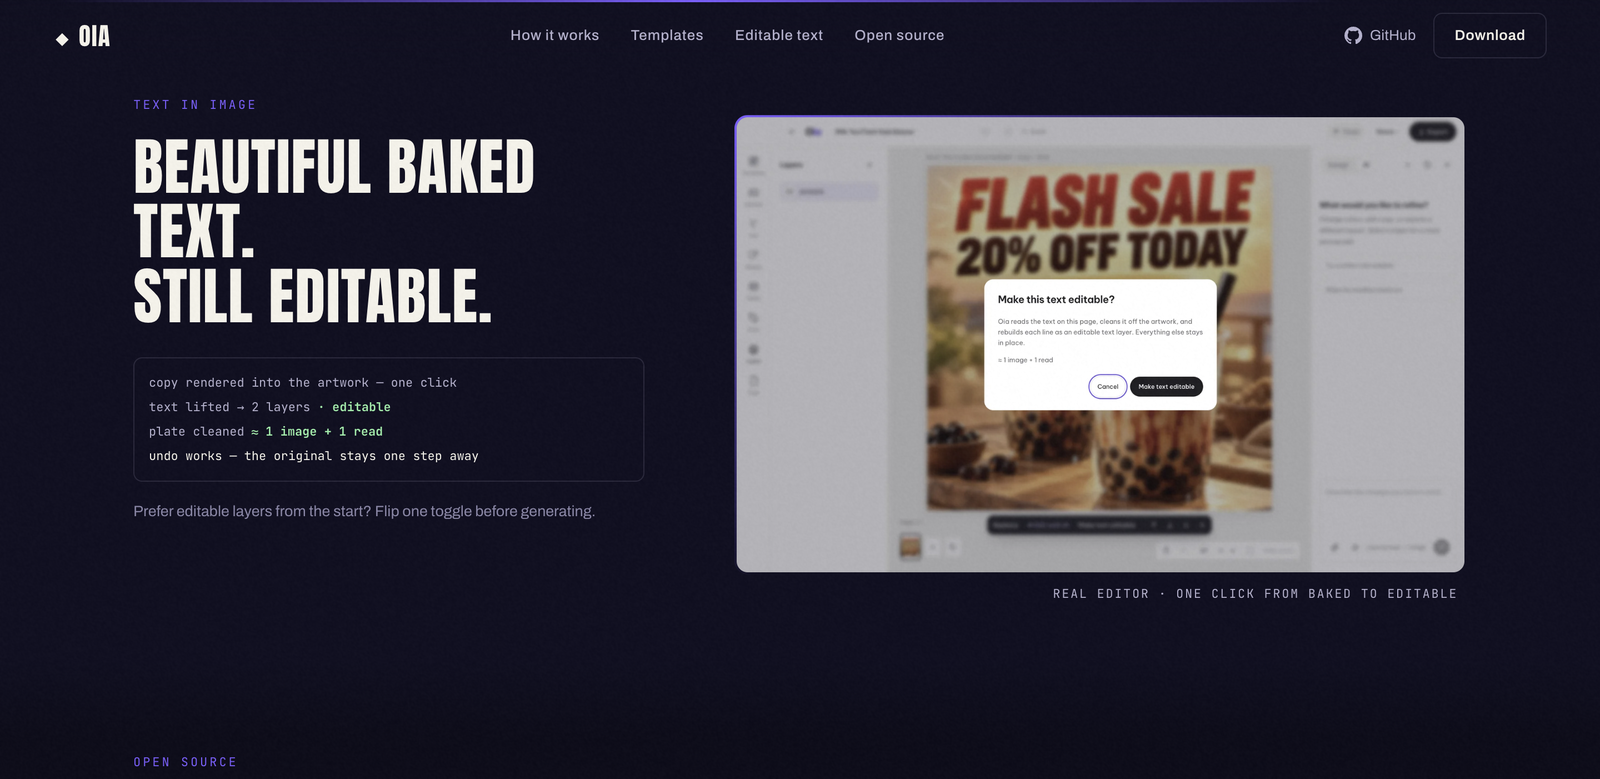
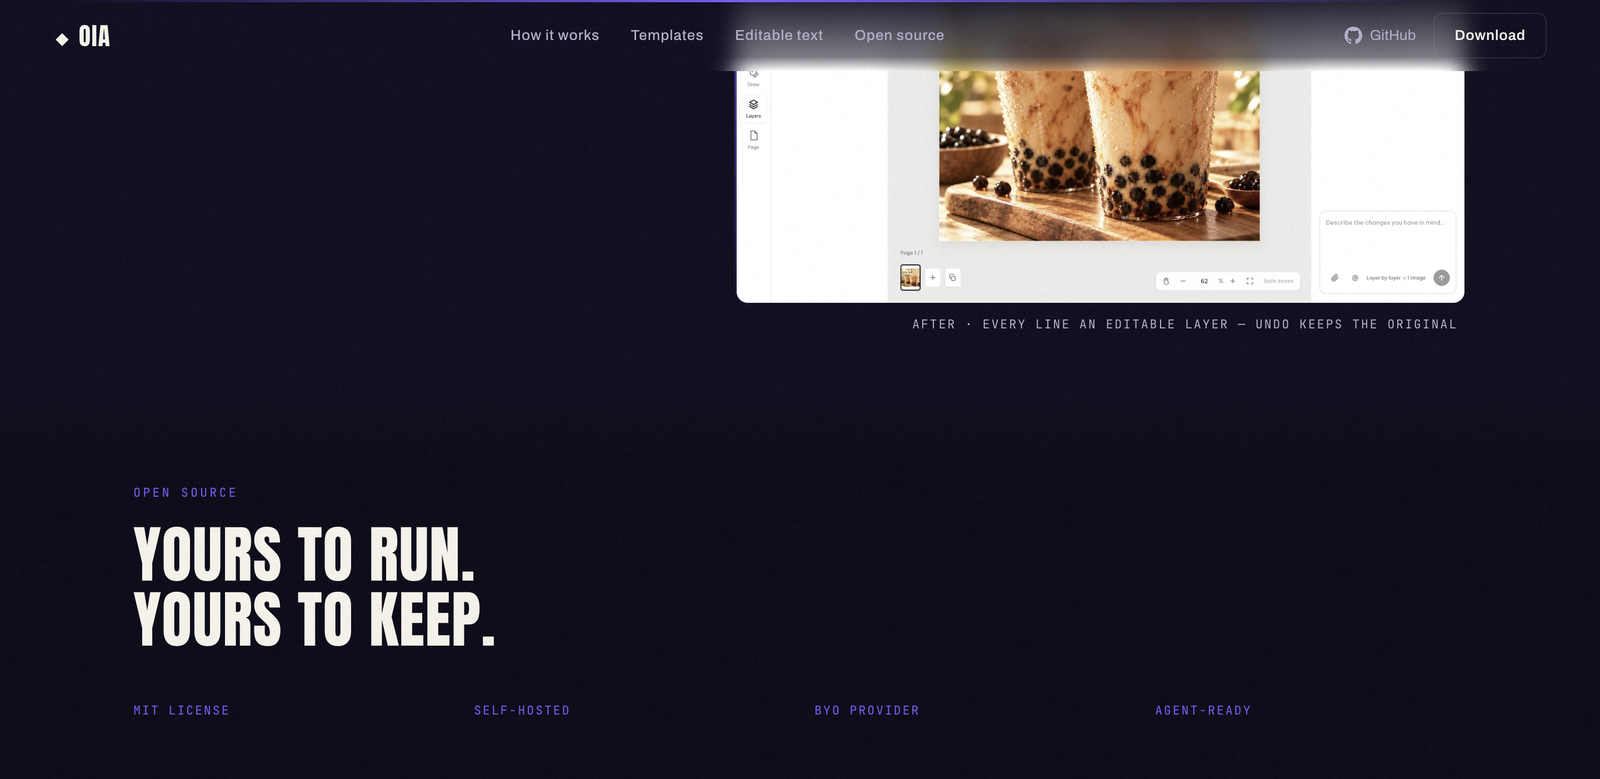
feat(landing): #bring shows the AFTER state too — text layers rebuilt
Owner: the section only proved the ask (the cost dialog), not the
result. Now a before/after pair: dialog over the glossy banner ->
Layers panel with the You-badged text layers, headline selected,
notice 'Text is editable - 2 text layers rebuilt'. Captions pin the
sequence; frames stack in the right column (bring-frames).

qa-shots re-shot (6-bring, 0-fullpage).

diff --git a/site/index.html b/site/index.html
@@ -199,9 +199,15 @@
       </div>
       <p class="bring-note">Prefer editable layers from the start? Flip one toggle before generating.</p>
     </div>
-    <div class="editor-frame">
-      <img loading="lazy" src="assets/deconstruct.webp?v=d16b" alt="Oia editor: a glossy 3D-typography banner on canvas with the “Make this text editable?” dialog open — cost ≈ 1 image + 1 read, one click rebuilds the copy as editable layers" width="1600" height="1000">
-      <span class="cap mono">real editor · one click from baked to editable</span>
+    <div class="bring-frames">
+      <div class="editor-frame">
+        <img loading="lazy" src="assets/deconstruct.webp?v=d16c" alt="Oia editor: a glossy 3D-typography banner on canvas with the “Make this text editable?” dialog open — cost ≈ 1 image + 1 read, one click rebuilds the copy as editable layers" width="1600" height="1000">
+        <span class="cap mono">before · one click, ≈ 1 image + 1 read</span>
+      </div>
+      <div class="editor-frame">
+        <img loading="lazy" src="assets/editable-after.webp?v=d16c" alt="Oia editor after the click: FLASH SALE and 20% OFF TODAY are editable text layers (each badged You) over the cleaned artwork, headline selected with the text toolbar, notice reads “Text is editable — 2 text layers rebuilt”" width="1600" height="1000">
+        <span class="cap mono">after · every line an editable layer — undo keeps the original</span>
+      </div>
     </div>
   </div>
 </section>

diff --git a/site/styles.css b/site/styles.css
@@ -158,6 +158,8 @@ h2{font-family:'Anton';font-weight:400;text-transform:uppercase;font-size:clamp(
 
 /* ---------- BRING (deconstruct) ---------- */
 .bring-grid{display:grid;grid-template-columns:minmax(0,5fr) minmax(0,7fr);gap:clamp(30px,5vw,70px);align-items:center}
+.bring-frames{display:flex;flex-direction:column;gap:26px}
+.bring-frames .editor-frame{margin-top:0}
 .bring-log{border:1px solid var(--hairline);border-radius:8px;padding:11px 13px;font-family:'JetBrains Mono';font-size:11px;line-height:2;color:var(--muted);max-width:460px;margin-top:26px}
 .bring-log b{color:#8ef0a6;font-weight:600}
 .bring-log .trust-line{color:var(--paper)}
